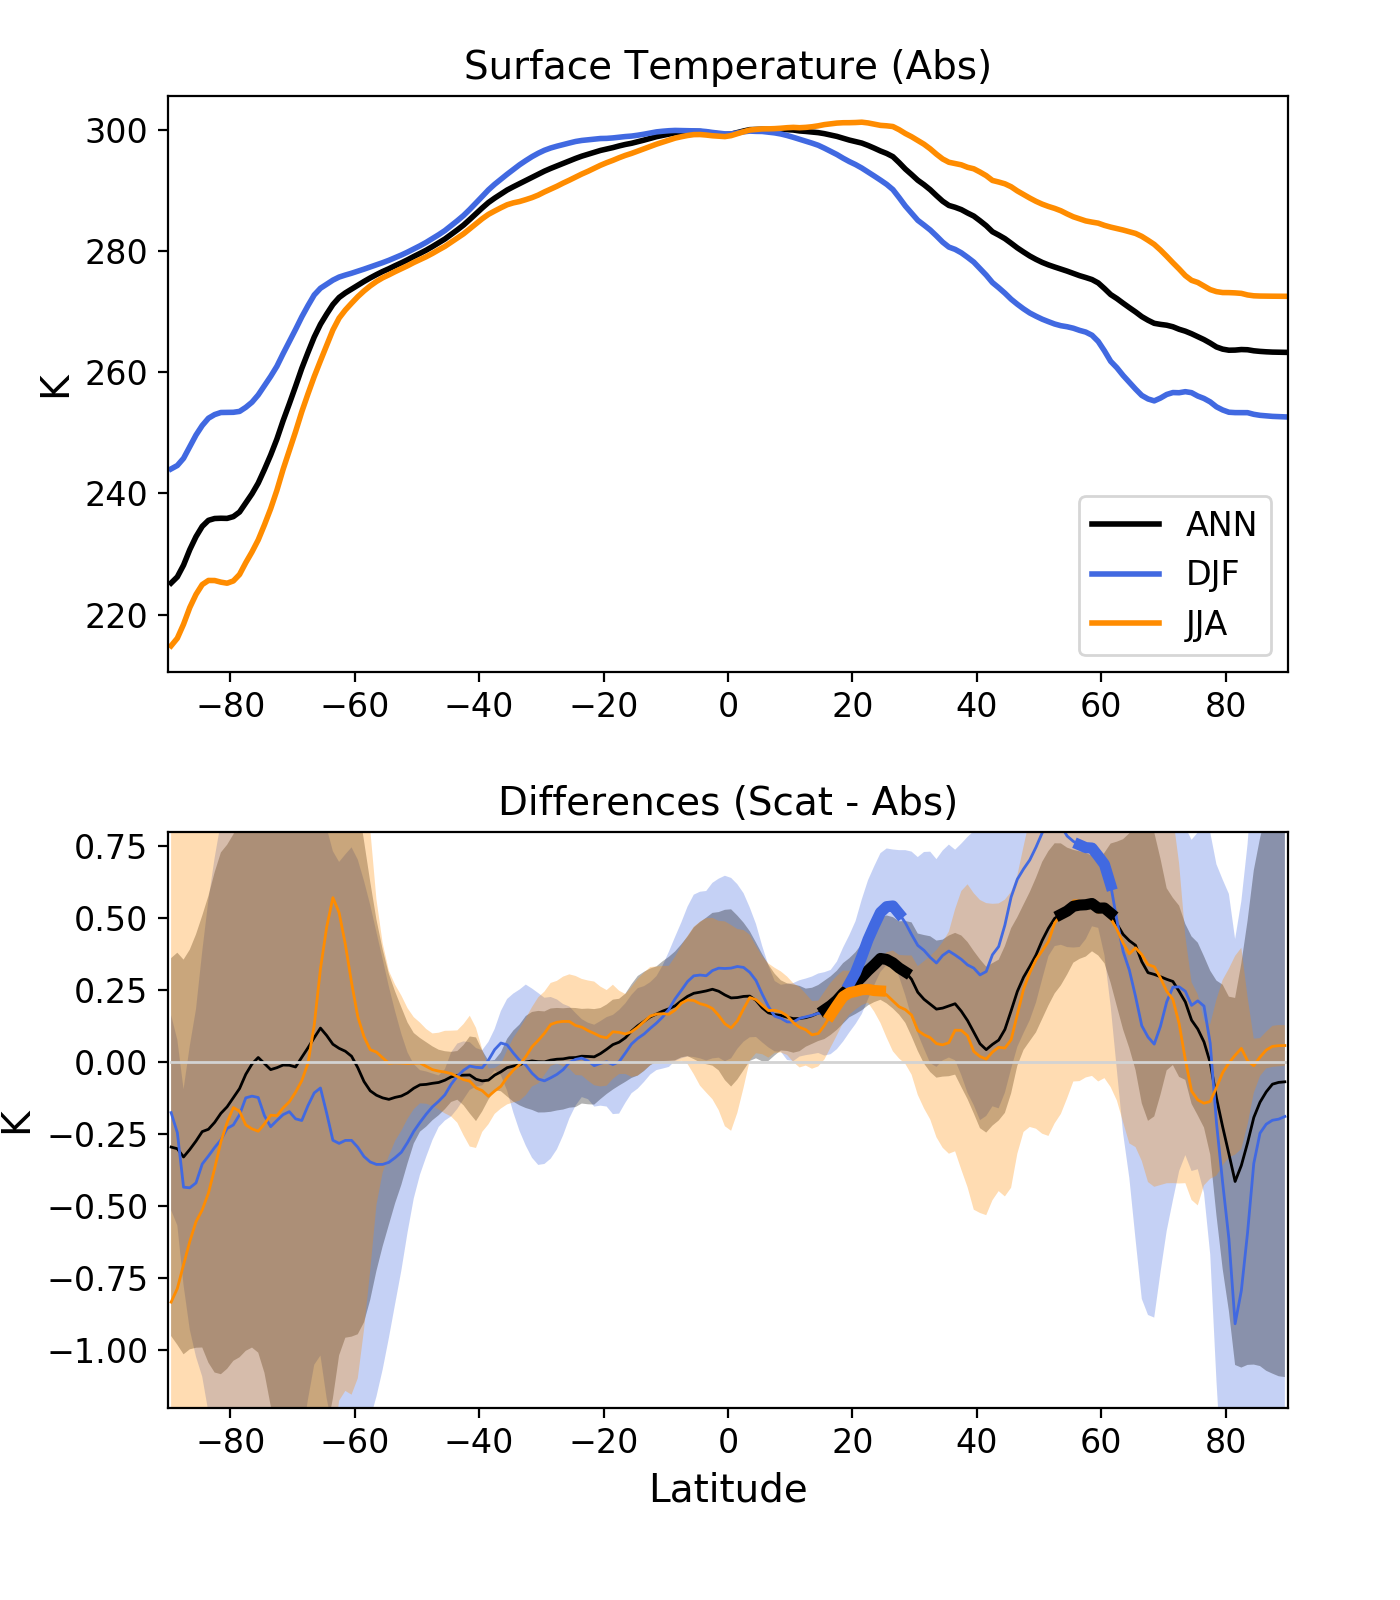
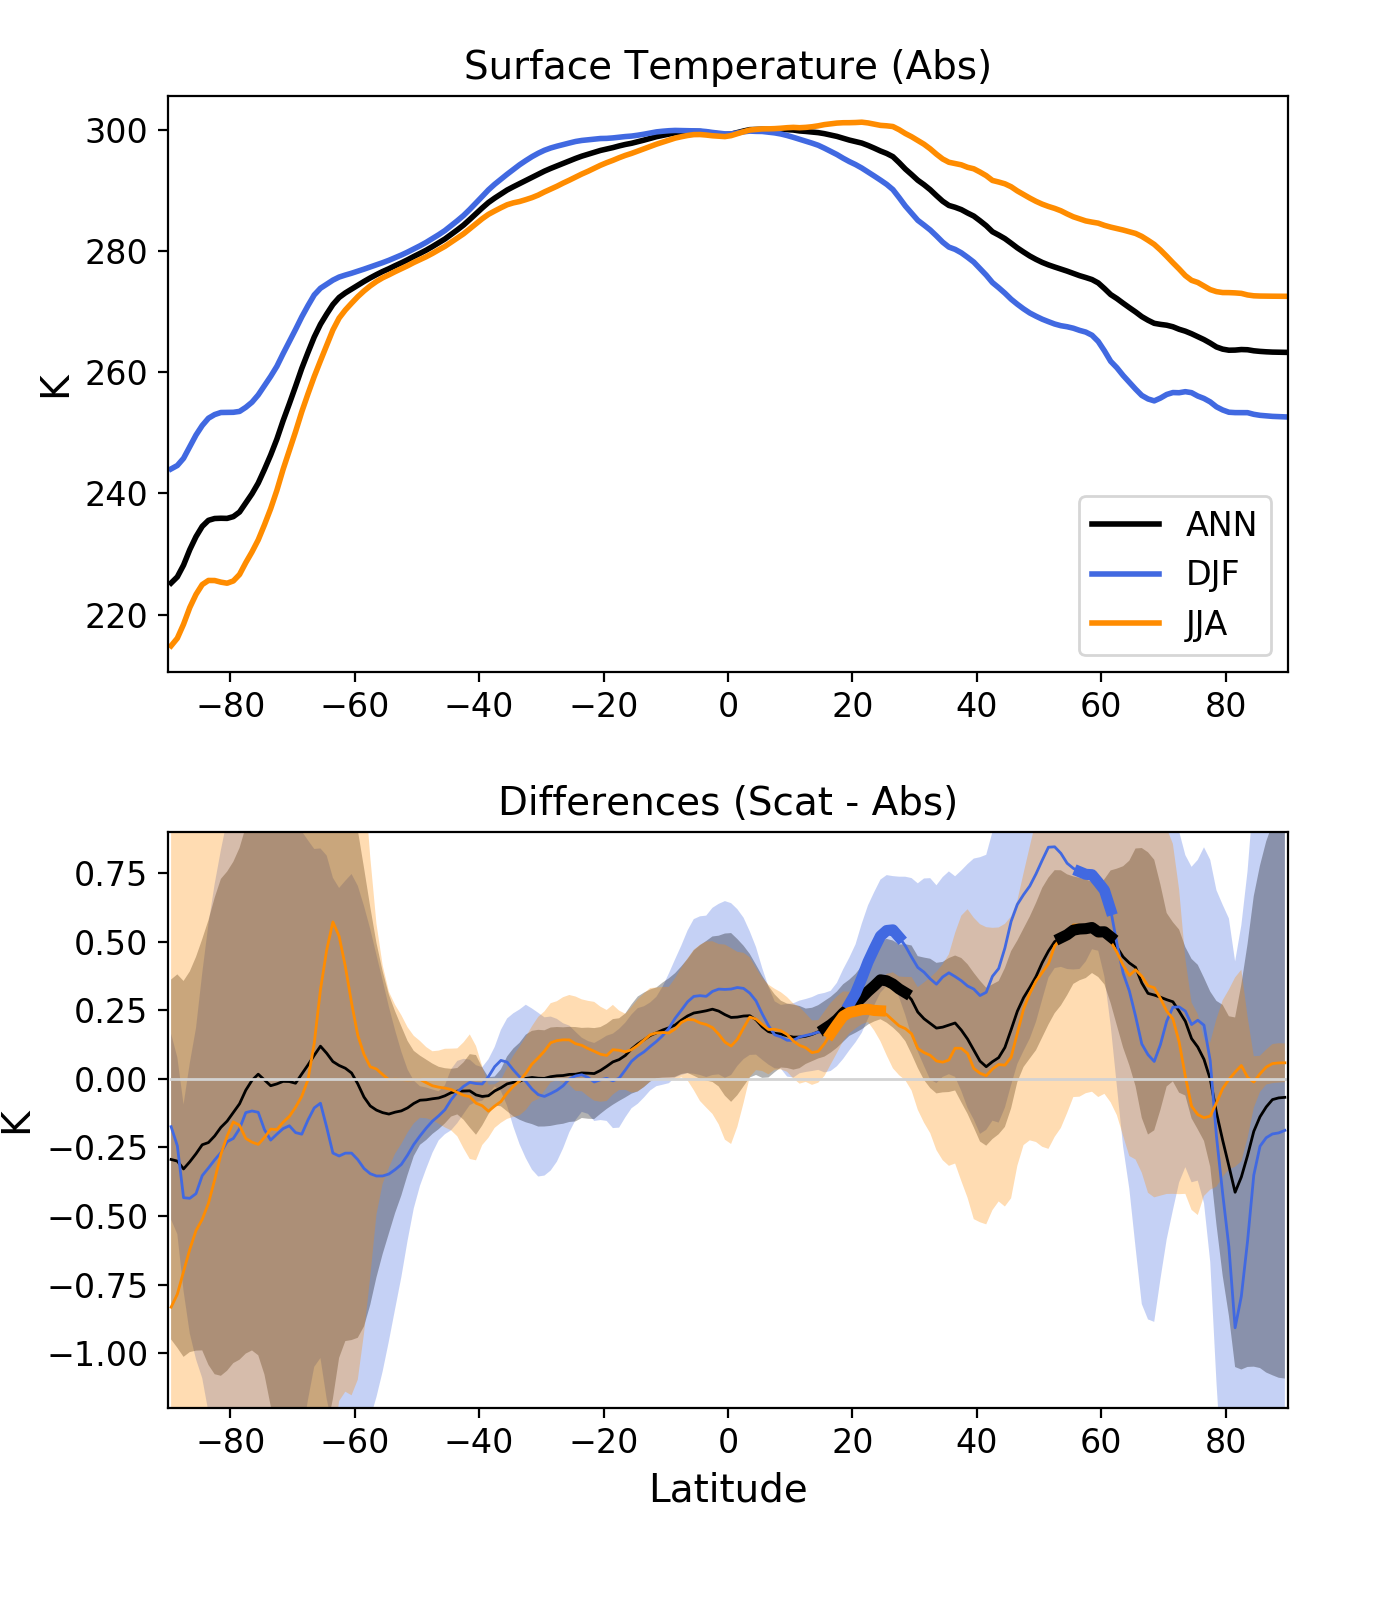
modify yaxis range

Changed region(s): [[0.0307, 0.5, 0.9214, 0.8125], [0.1536, 0.5, 0.1843, 0.5625]]

diff --git a/d4_zonal_mean_model_vs_model.py b/d4_zonal_mean_model_vs_model.py
@@ -264,7 +264,7 @@ ax2.set_title("Differences (Scat - Abs)",fontsize=14) #+var_long_name,fontsize=1
 ax2.set_ylabel(units,fontsize=14)
 ax2.set_xlabel("Latitude",fontsize=14)
 ax2.set_xlim(-90,90)
-ax2.set_ylim(-1.2,0.8)
+ax2.set_ylim(-1.2,0.9)
 plt.xticks(fontsize=12)
 plt.yticks(fontsize=12)
 
